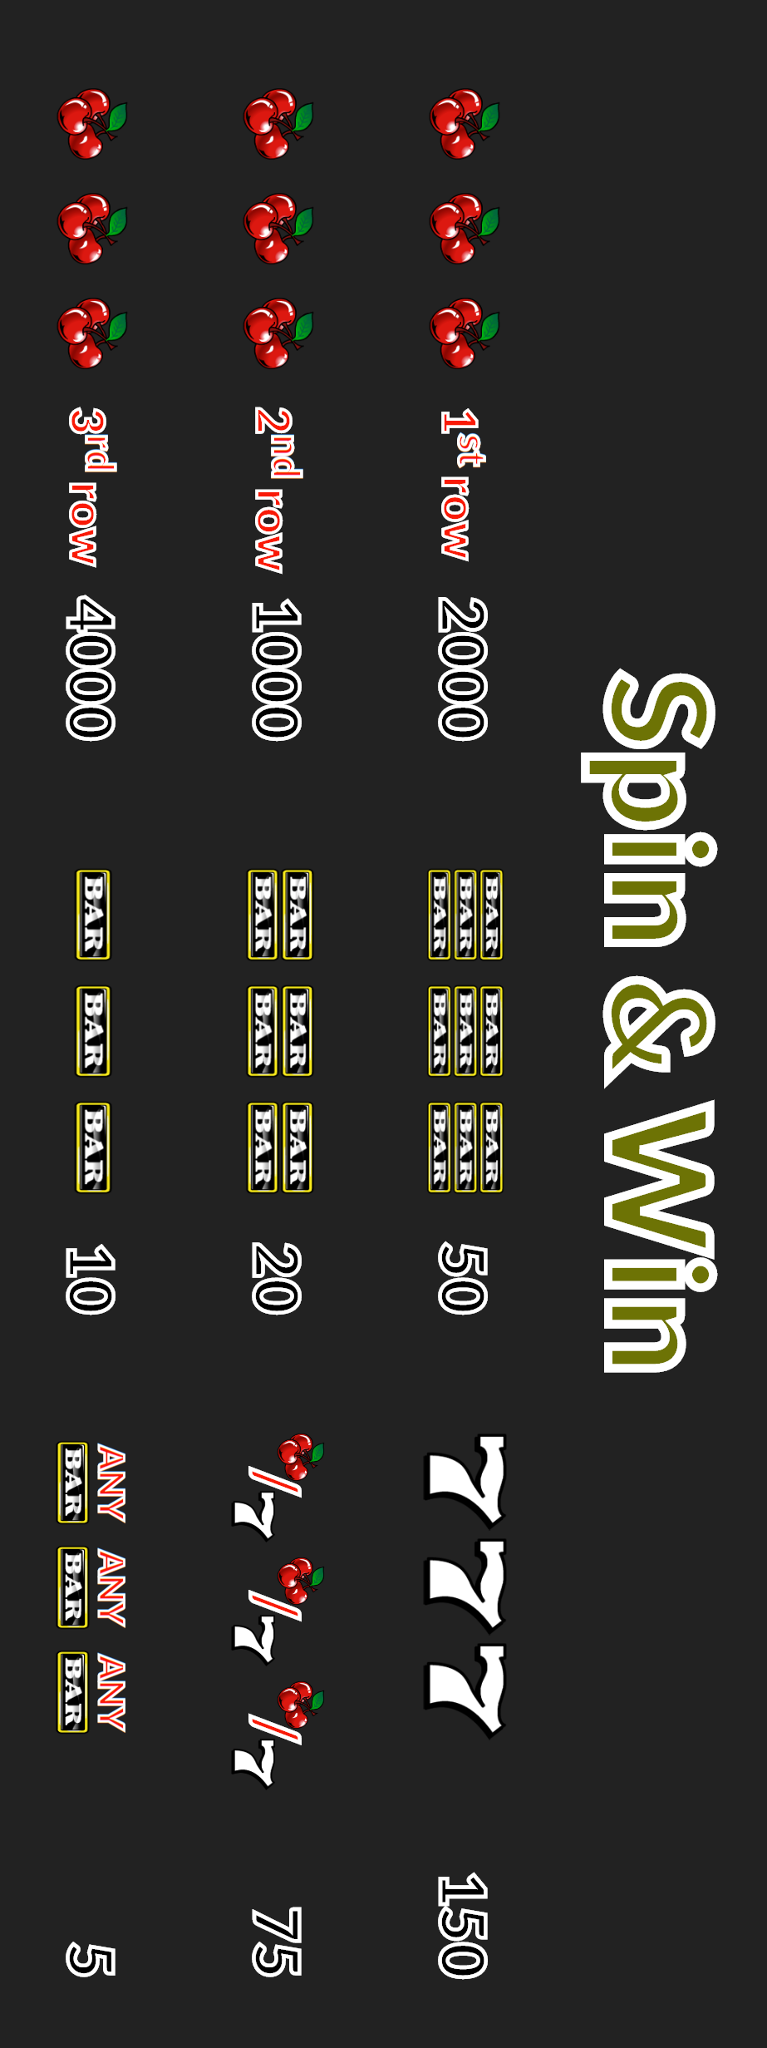
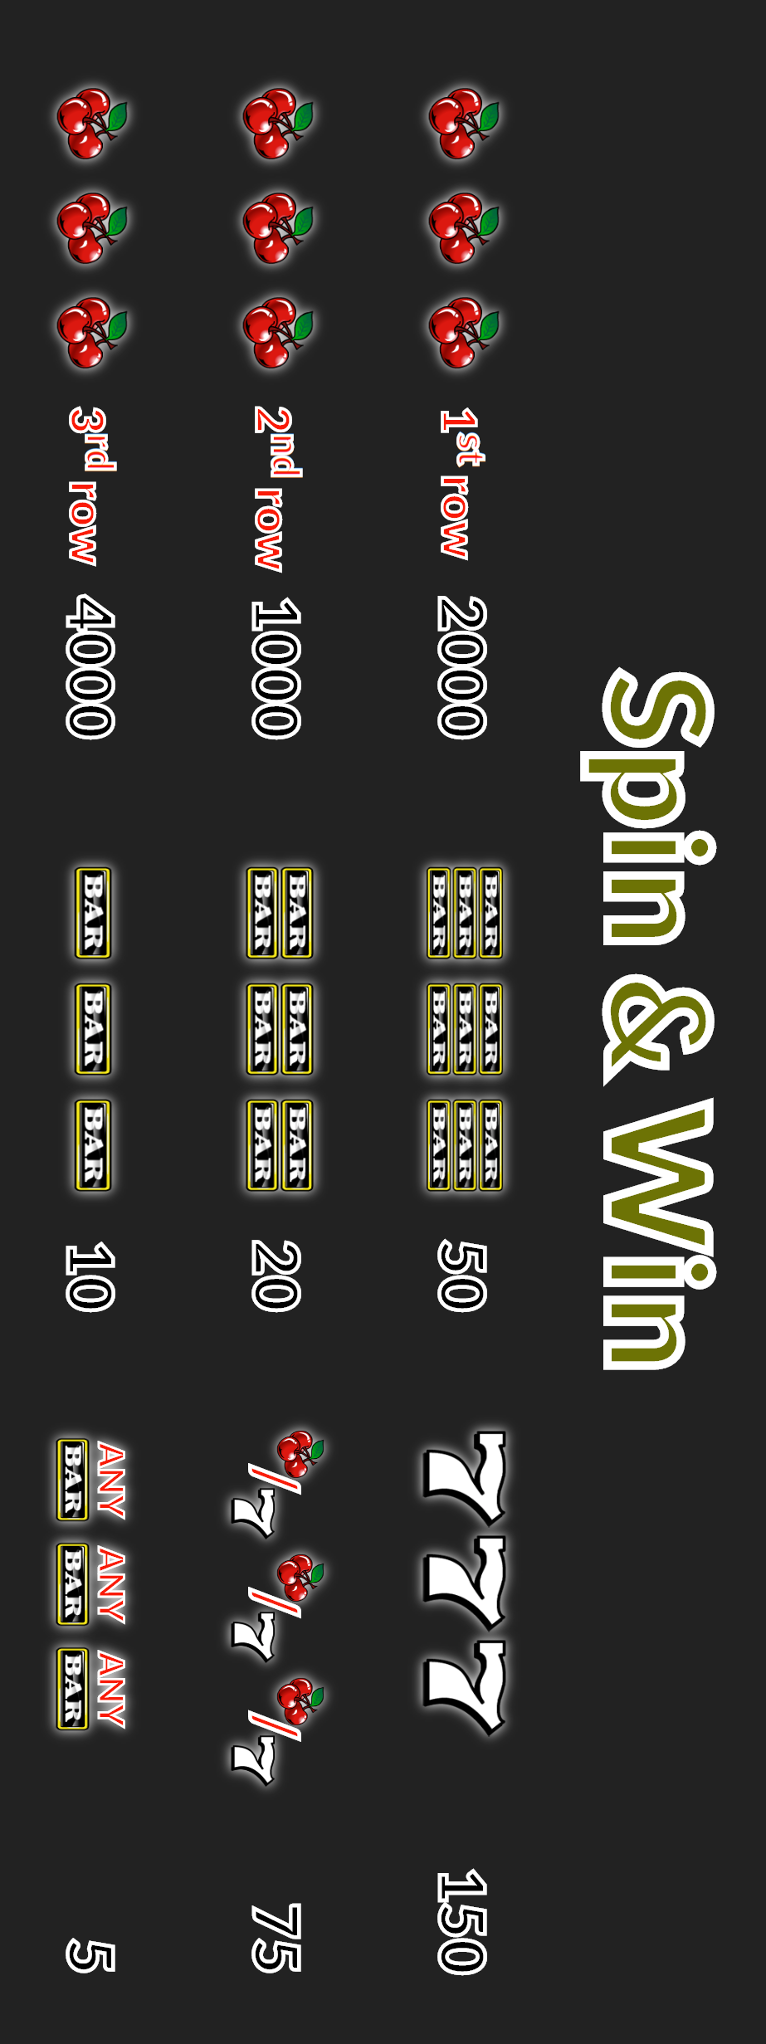
Draw symbols on the reels

diff --git a/src/game/reel/reel.ts b/src/game/reel/reel.ts
@@ -3,27 +3,92 @@ import {
     Mesh,
     StandardMaterial,
     Texture,
-    Color3
+    Color3,
+    DynamicTexture
 } from "babylonjs";
-import { Component, noop } from "rebylon";
-import { uid } from "../uid";
-import { sceneStorage } from "../sceneStorage";
-import { lightmapImage } from "./images";
+import { memoize } from "lodash-es";
+import {
+    Component,
+    Param,
+    composeEffects,
+    asyncContrucor,
+    afterDispose,
+    map,
+    write
+} from "rebylon";
+import { uid } from "../utils/uid";
+import { sceneStorage } from "../utils/sceneStorage";
+import {
+    lightmapImage,
+    symbolImageMap,
+    symbolImageSize
+} from "./images";
+import { ReelSymbol, reelContent } from "../../state";
+import { loadImage } from "../utils/loadImage";
+
+const loadReelSymbol = memoize((symbol: ReelSymbol) => {
+    return loadImage(symbolImageMap[symbol]);
+});
+
+interface ReelTextureProps {
+    /**
+     * Offset in symbols
+     */
+    offset: Param<number>;
+    material: StandardMaterial;
+}
+
+const reelTextures = asyncContrucor(async (scene: Scene, { offset, material }: ReelTextureProps): Promise<Component> => {
+    const images = await Promise.all(reelContent.map(loadReelSymbol));
+    const { width, height } = symbolImageSize,
+        spacing = 16,
+        diffuse = new DynamicTexture(uid("reelTexture"), {
+            width,
+            height: (height + spacing) * 5,
+        }, scene, true),
+        context = diffuse.getContext();
+    context.fillStyle = "#FFFFFF";
+    context.fillRect(0, 0, width, (height + spacing) * 5);
+    images.forEach((image, i) => {
+        context.drawImage(image, 0, (height + spacing) * i);
+    });
+
+    diffuse.vScale = 2.5 / 5;
+    diffuse.wrapV = 1;
+    diffuse.update();
+
+    material.diffuseTexture = diffuse;
+
+    const updateOffset = write(diffuse, {
+        vOffset: map(offset)(offset => (offset - 3.7) / 5)
+    });
+
+    return {
+        update: composeEffects(updateOffset),
+        dispose: () => {
+            diffuse.dispose();
+        }
+    };
+});
+
+
 
 export interface ReelProps {
     mesh: Mesh;
+    topSymbol: Param<ReelSymbol>;
 }
 
-const lightmap = sceneStorage("reelTexture", scene => {
+const loadLightmap = sceneStorage("reelLightmap", scene => {
     const texture = new Texture(lightmapImage, scene);
     return texture;
 });
 
 export function reel(scene: Scene, {
     mesh,
+    topSymbol
 }: ReelProps): Component {
     const material = new StandardMaterial(uid("reelMaterial"), scene);
-    material.lightmapTexture = lightmap(scene);
+    material.lightmapTexture = loadLightmap(scene);
     material.useLightmapAsShadowmap = true;
     material.sideOrientation = Mesh.FRONTSIDE;
     material.diffuseColor = new Color3(0.75, 0.75, 0.75);
@@ -31,10 +96,13 @@ export function reel(scene: Scene, {
 
     mesh.material = material;
 
-    return {
-        update: noop,
-        dispose: () => {
-
-        }
-    };
+    return afterDispose(
+        reelTextures(scene, {
+            material,
+            offset: map(topSymbol)(symbol => {
+                return reelContent.indexOf(symbol);
+            })
+        }),
+        () => material.dispose()
+    );
 }

diff --git a/src/start.ts b/src/start.ts
@@ -16,6 +16,7 @@ import {
     body,
     paytable
 } from "./game";
+import { ReelSymbol } from "./state";
 
 window.addEventListener("DOMContentLoaded", () => {
     const canvas = document.getElementById("canvas") as HTMLCanvasElement,
@@ -34,18 +35,27 @@ window.addEventListener("DOMContentLoaded", () => {
                 }),
                 reel(scene, {
                     mesh: meshes[MeshName.Reel1],
+                    topSymbol: ReelSymbol.Seven,
                 }),
                 reel(scene, {
                     mesh: meshes[MeshName.Reel2],
+                    topSymbol: ReelSymbol.BARx2,
                 }),
                 reel(scene, {
                     mesh: meshes[MeshName.Reel3],
+                    topSymbol: ReelSymbol.BAR,
                 }),
                 border(scene, {
                     mesh: meshes[MeshName.MachineEdge],
                 }),
                 body(scene, {
                     mesh: meshes[MeshName.MachineBody],
+                }),
+                body(scene, {
+                    mesh: meshes[MeshName.LeftBanner],
+                }),
+                body(scene, {
+                    mesh: meshes[MeshName.RightBanner],
                 })
             )),
         );

diff --git a/src/game/light/light.ts b/src/game/light/light.ts
@@ -6,16 +6,16 @@ import {
     Vector3,
 } from "babylonjs";
 import { noop } from "rebylon";
-import { uid } from "../uid";
+import { uid } from "../utils/uid";
 
 export function lights(scene: Scene) {
     const light1 = new HemisphericLight(uid("light"), new Vector3(0, 1, 0), scene);
-	light1.diffuse = new Color3(1.57, 1.57, 1.65);
+	light1.diffuse = new Color3(2, 2, 2);
 	light1.specular = new Color3(0.2, 0.2, 0.2);
 
     const light2 = new DirectionalLight(uid("light"), new Vector3(-0.75, -1, -0.5), scene);
-    light2.position = new Vector3(0, 20, 0);
-    light2.intensity = 0.75;
+    light2.position = new Vector3(10, 1, 10);
+    light2.intensity = 1.5;
 
     return {
         update: noop,

diff --git a/src/game/border/border.ts b/src/game/border/border.ts
@@ -1,6 +1,6 @@
 import { Scene, Mesh, StandardMaterial, Color3 } from "babylonjs";
 import { noop, Component } from "rebylon";
-import { uid } from "../uid";
+import { uid } from "../utils/uid";
 
 interface BorderProps {
     mesh: Mesh;
@@ -9,7 +9,7 @@ interface BorderProps {
 export function border(scene: Scene, { mesh }: BorderProps): Component {
     const material = new StandardMaterial(uid("borderMaterial"), scene);
     material.diffuseColor = new Color3(0.5, 0.5, 0.5);
-    material.emissiveColor = new Color3(0.2, 0.2, 0.3);
+    material.emissiveColor = new Color3(0.2, 0.2, 0.3).scale(3);
     material.sideOrientation = Mesh.FRONTSIDE;
 
     mesh.material = material;

diff --git a/src/game/camera/camera.ts b/src/game/camera/camera.ts
@@ -1,10 +1,13 @@
 import { Scene, Vector3, ArcRotateCamera } from "babylonjs";
 import { Component, noop } from "rebylon";
-import { uid } from "../uid";
+import { uid } from "../utils/uid";
 
 export function camera(scene: Scene): Component {
-    var camera = new ArcRotateCamera(uid("camera"), 0, 0, 5, new Vector3(0, 0, 0), scene);
     ArcRotateCamera.ForceAttachControlToAlwaysPreventDefault = true;
+
+    var camera = new ArcRotateCamera(uid("camera"), 0, 0, 5, new Vector3(0, 0, 0), scene);
+    camera.lowerRadiusLimit = 4;
+    camera.upperRadiusLimit = 5;
     camera.attachControl(scene.getEngine().getRenderingCanvas()!, false);
     return {
         update: noop,

diff --git a/src/game/paytable/paytable.ts b/src/game/paytable/paytable.ts
@@ -6,7 +6,7 @@ import {
     Color3
 } from "babylonjs";
 import { Component, noop } from "rebylon";
-import { uid } from "../uid";
+import { uid } from "../utils/uid";
 
 import paytableImage from "./images/paytable.png";
 
@@ -16,7 +16,7 @@ export interface PaytableProps {
 
 export function paytable(scene: Scene, { mesh }: PaytableProps): Component {
     const material = new StandardMaterial(uid("paytableMaterial"), scene),
-        texture = new Texture(paytableImage, scene);
+        texture = new Texture(paytableImage, scene, false);
     
     material.diffuseTexture = texture;
     material.specularColor = new Color3(0.1, 0.1, 0.1);

diff --git a/src/game/reel/images/index.ts b/src/game/reel/images/index.ts
@@ -1,3 +1,21 @@
 import lightmap from "./lightmap.png";
+import BAR from "./BAR.png";
+import BARx2 from "./2xBAR.png";
+import BARx3 from "./3xBAR.png";
+import Seven from "./7.png";
+import Cherry from "./Cherry.png";
+import { ReelSymbol } from "../../../state";
 
 export const lightmapImage = lightmap;
+export const symbolImageMap = {
+    [ReelSymbol.BAR]: BAR,
+    [ReelSymbol.BARx2]: BARx2,
+    [ReelSymbol.BARx3]: BARx3,
+    [ReelSymbol.Seven]: Seven,
+    [ReelSymbol.Cherry]: Cherry
+};
+
+export const symbolImageSize = {
+    width: 141,
+    height: 121
+};

diff --git a/src/state/state.ts b/src/state/state.ts
@@ -1,0 +1,21 @@
+
+export enum ReelSymbol {
+    BARx3 = "BARx3",
+    BAR = "BAR",
+    BARx2 = "BARx2",
+    Seven = "Seven",
+    Cherry = "Cherry"
+}
+
+export const reelContent = [
+    ReelSymbol.BARx3,
+    ReelSymbol.BAR,
+    ReelSymbol.BARx2,
+    ReelSymbol.Seven,
+    ReelSymbol.Cherry
+];
+
+export function nextSymbol(symbol: ReelSymbol) {
+    return (reelContent.indexOf(symbol) + 1) % 5;
+}
+

diff --git a/src/game/utils/loadImage.ts b/src/game/utils/loadImage.ts
@@ -1,0 +1,10 @@
+import { Immediate } from "rebylon";
+
+export function loadImage(url: string): PromiseLike<HTMLImageElement> {
+    return new Immediate(new Promise((resolve, reject) => {
+        const image = new Image();
+        image.onload = () => resolve(image);
+        image.onerror = () => reject(new Error(`Failed to load image '${url}'`));
+        image.src = url;
+    }));
+}

diff --git a/src/game/glow/glow.ts b/src/game/glow/glow.ts
@@ -6,11 +6,12 @@ import {
     Component,
     noop
 } from "rebylon";
-import { uid } from "../uid";
+import { uid } from "../utils/uid";
 
 export function glow(scene: Scene): Component {
     const glowLayer = new GlowLayer(uid("glow"), scene, {
-        mainTextureSamples: 4
+        mainTextureSamples: 4,
+        blurKernelSize: 12
     });
     return {
         update: noop,

diff --git a/src/game/body/body.ts b/src/game/body/body.ts
@@ -5,7 +5,7 @@ import {
     Color3,
 } from "babylonjs";
 import { noop } from "rebylon";
-import { uid } from "../uid";
+import { uid } from "../utils/uid";
 
 interface BodyProps {
     mesh: Mesh;

diff --git a/design/paytable/style.css b/design/paytable/style.css
@@ -70,6 +70,7 @@ span {
     background-size: contain;
     background-repeat: no-repeat;
     background-position: center;
+    filter: drop-shadow(0 0 4px white);
 }
 
 .iBAR, .i2xBAR, .i3xBAR {
